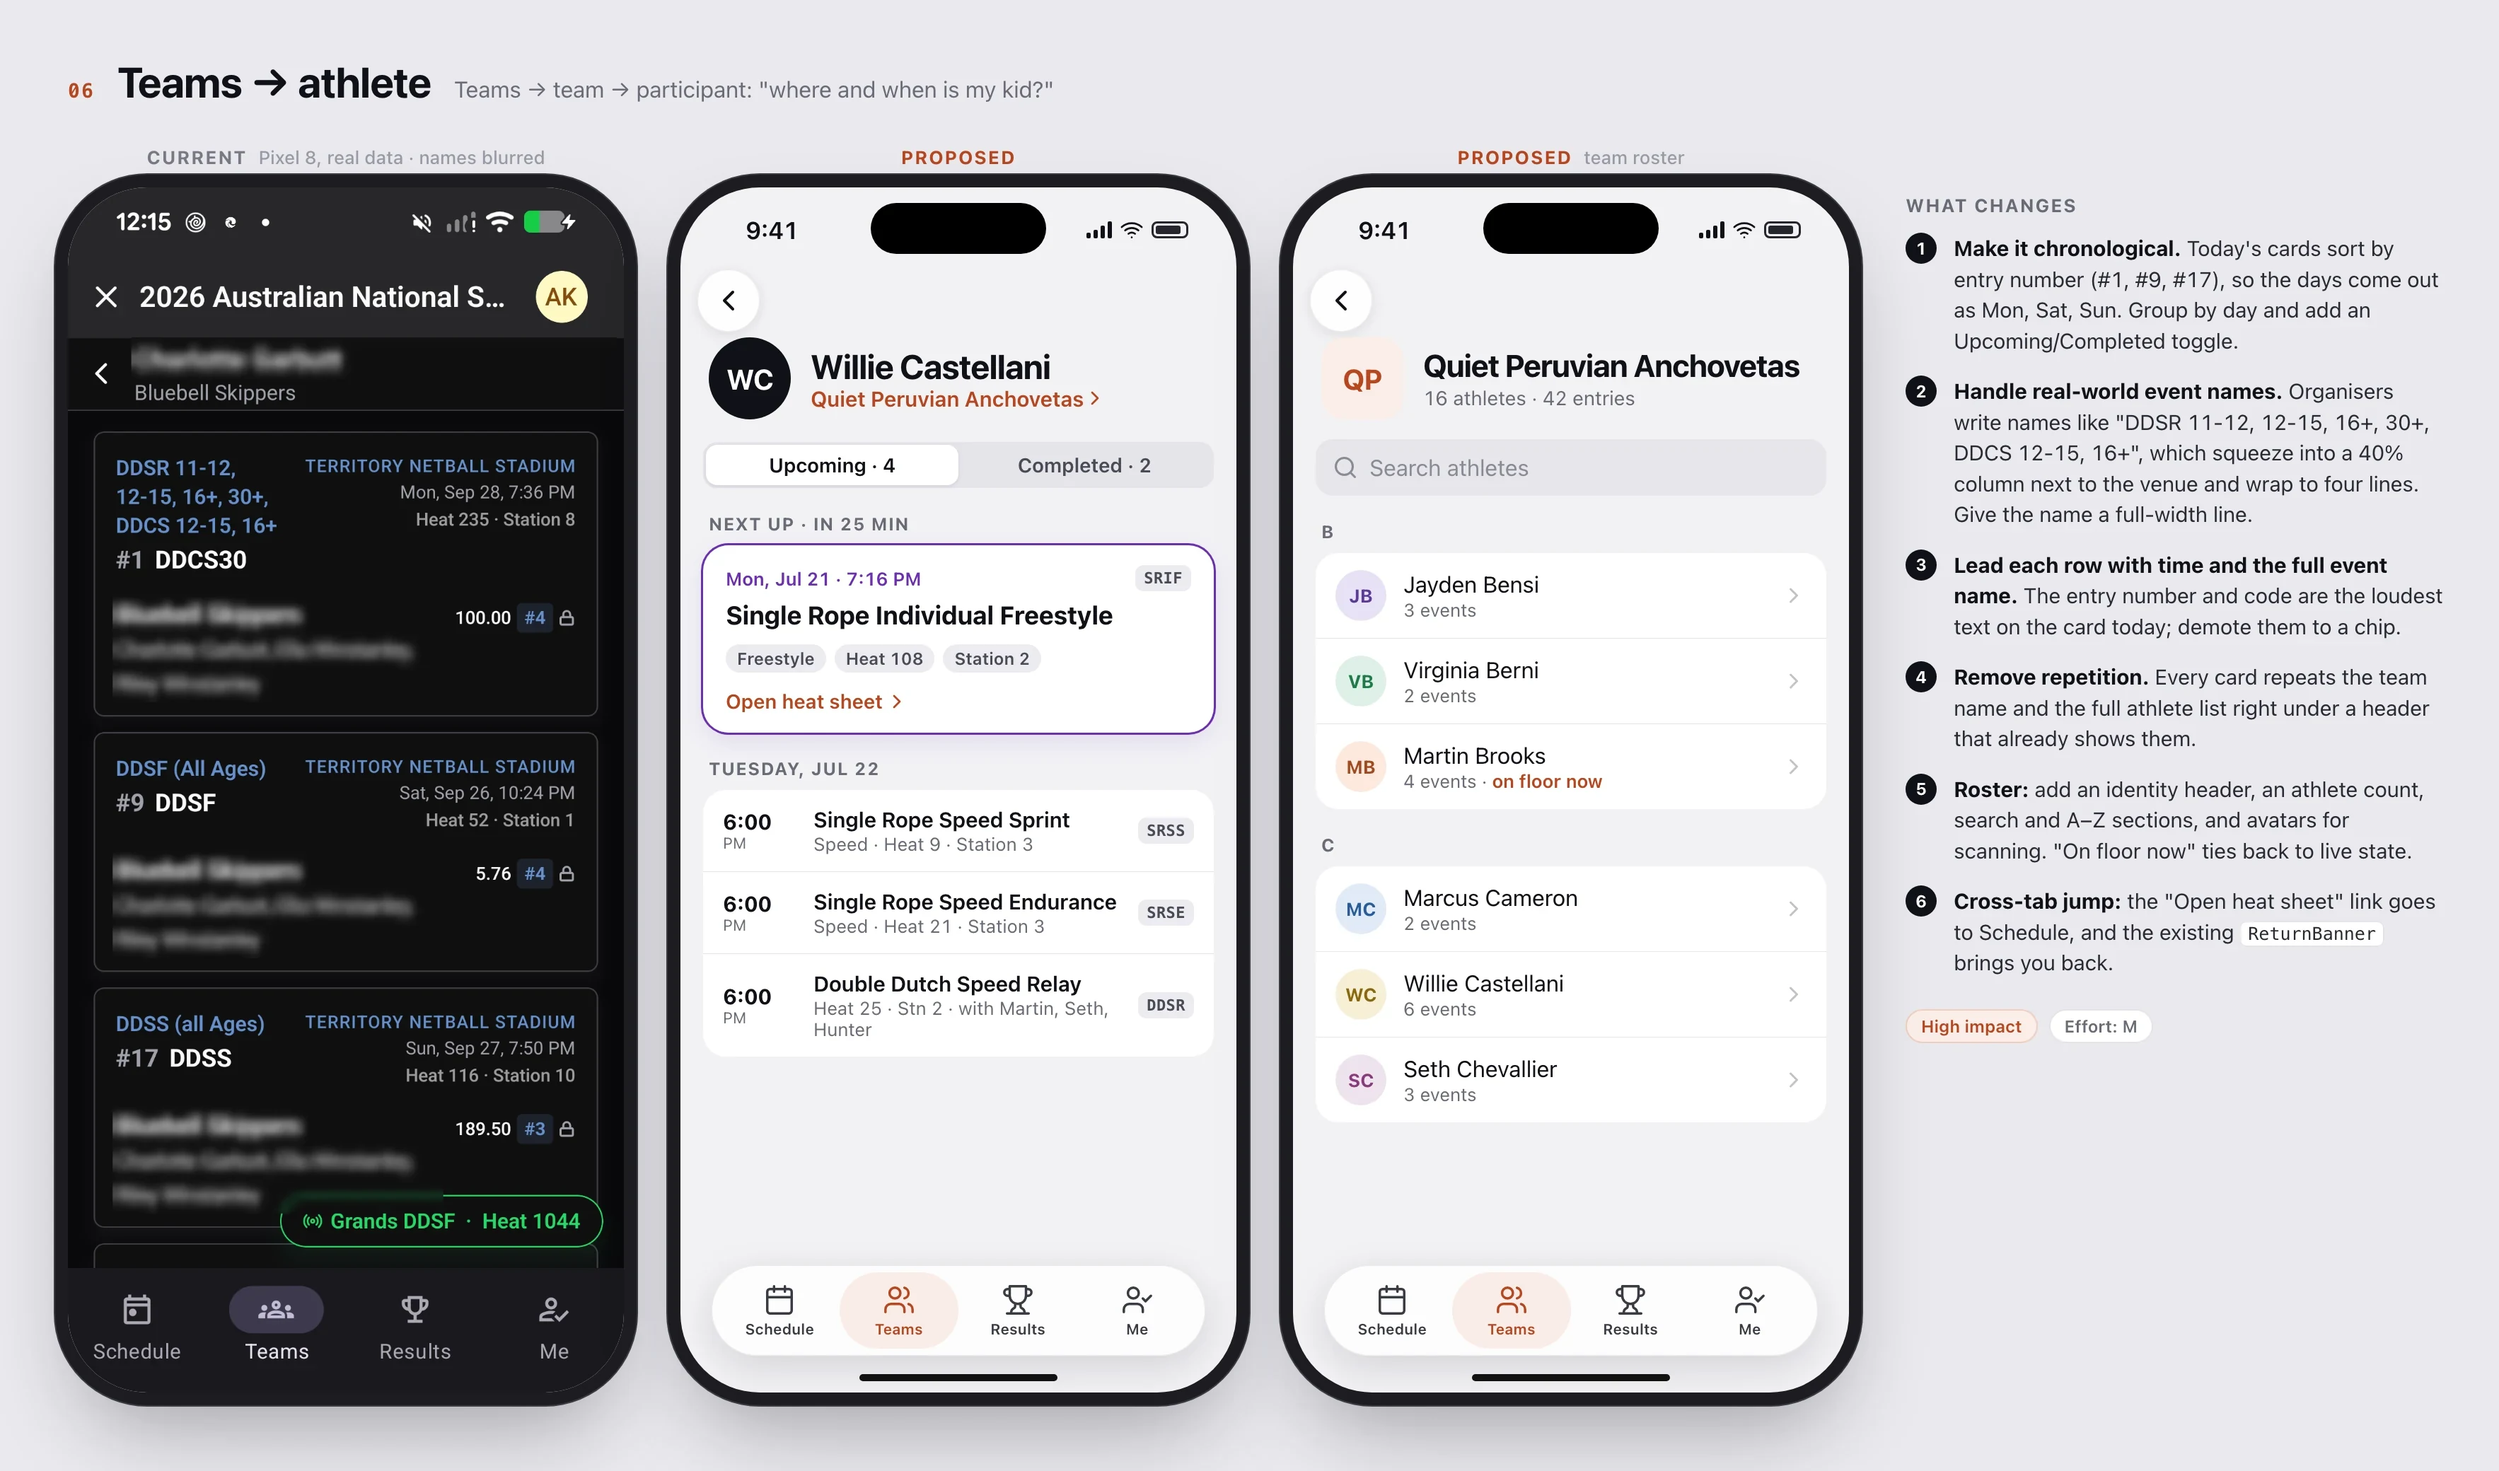
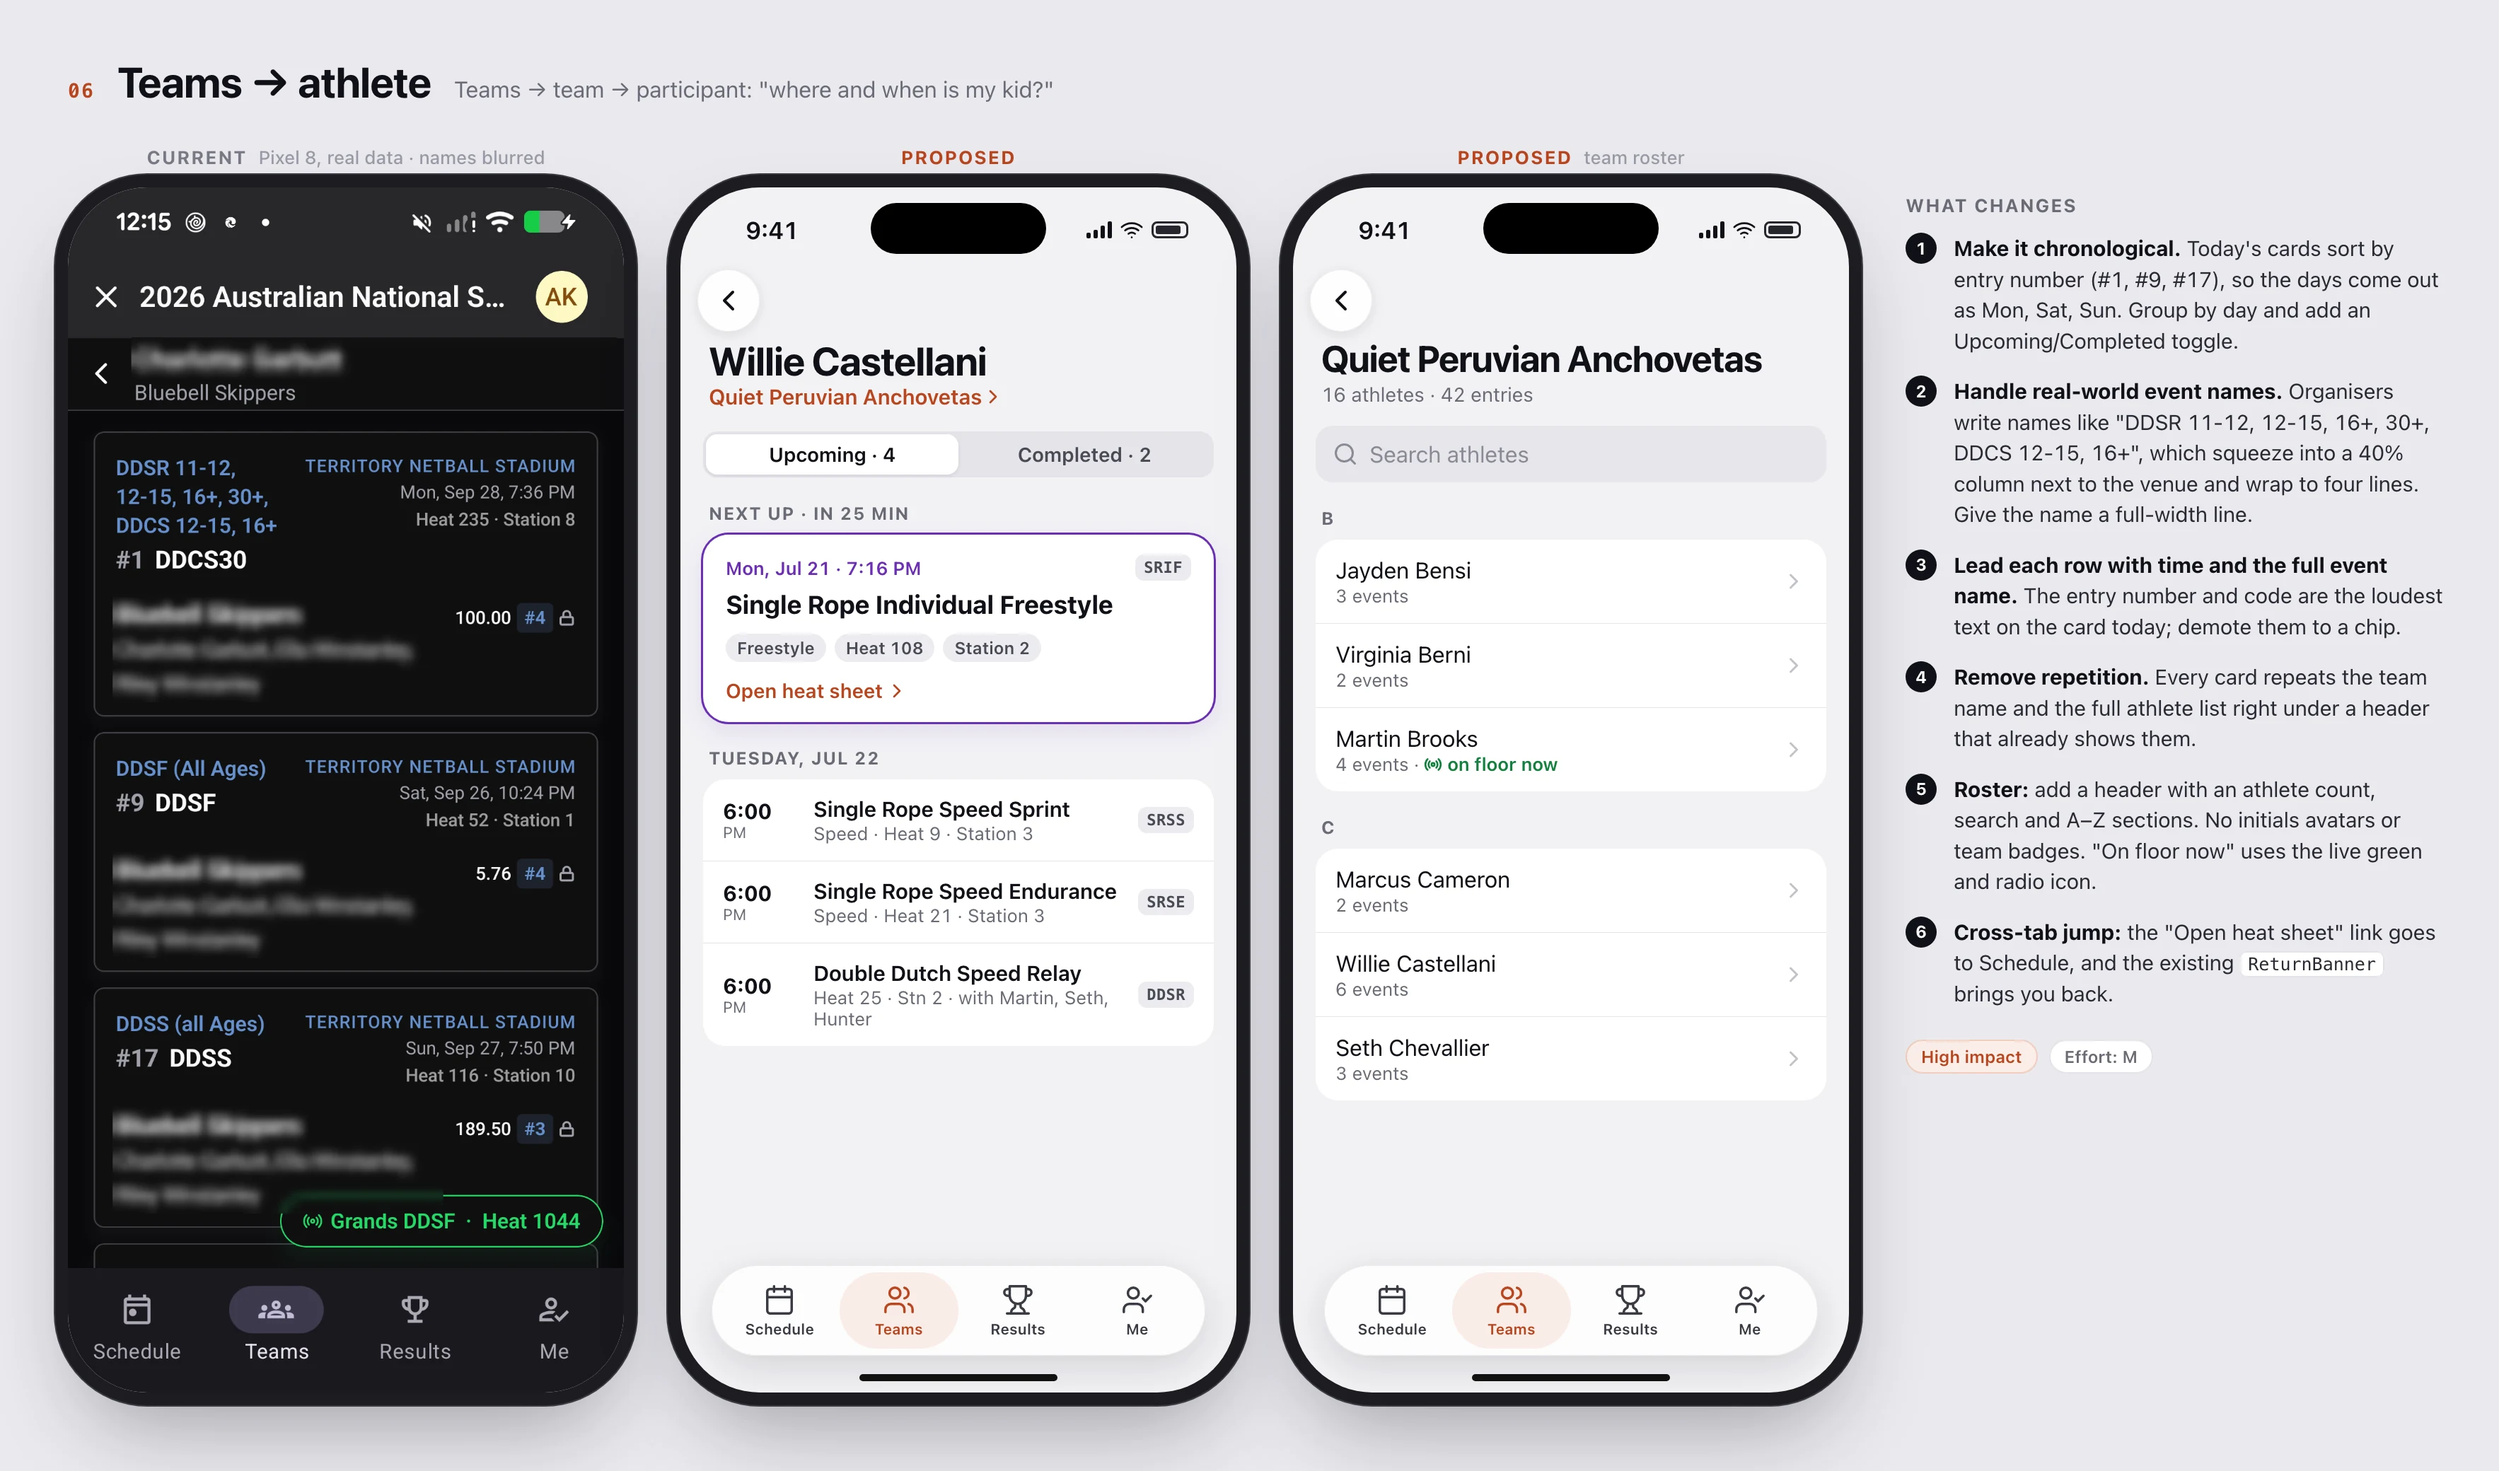
FlowScore UI review: revise colour roles, landing and results
Keep green and the radio icon for live, move blue to final results,
drop the branded landing background and QR option, remove FlowScore
branding from competition cards and initials avatars from people, and
replace the results podium with a ranked list using medal icons.

diff --git a/flowscore-ui-review-a6f808f555/index.html b/flowscore-ui-review-a6f808f555/index.html
@@ -67,7 +67,7 @@
   <div class="panel">
     <h3>Main themes</h3>
     <ol>
-      <li><b>The app doesn't look like FlowScore.</b> The icon is ink with a coral "live" column. The app uses a generic blue, a green "live" colour and the platform's default tab colour.</li>
+      <li><b>The app doesn't use its own colours.</b> Coral from the icon becomes the accent for actions, selection and the tab bar. Green and the radio icon stay the "live" signal. Blue, which coral replaces as the main colour, moves to "Final" results.</li>
       <li><b>Real data breaks the layouts.</b> Results columns truncate. Event names like "DDSR 11-12, 12-15, 16+, 30+…" wrap to four lines. Competition titles wrap to two lines.</li>
       <li><b>There's too much header.</b> The competition header stays on top of every detail screen. Its ✕ means "switch competition", not "close".</li>
       <li><b>Floating overlays hide content.</b> The live-now pill covers rows on every tab, and the "Back to…" banner covers the top of the heat list.</li>
@@ -80,7 +80,6 @@
       <li><b>Schedule renders blank on Android</b> (production 1.4.0, on a competition with a live session). No day tabs, list or empty state, and no errors in logcat.</li>
       <li><b>The account dropdown stays open after deep-link navigation</b> and sits on top of other screens.</li>
       <li><b>The OAuth redirect route sends you to a 404.</b> It still targets <code>/(tabs)</code>, which no longer exists.</li>
-      <li><b>The QR scan screen has no entry point</b> anywhere in the UI.</li>
       <li><b>Dark-mode cards glow white</b> because the card shadow uses the text colour.</li>
     </ul>
   </div>
@@ -92,8 +91,8 @@
       <li><b>Core screens:</b> Schedule, heats and results (02–05).</li>
       <li><b>Everything else:</b> the home screen, athlete page, settings and account menu.</li>
     </ol>
-    <h3 style="margin-top:18px">Open decision</h3>
-    <p>Should the accent change from blue to brand coral? Plain coral <code>#D85A30</code> with white text is only 3.9:1, so filled buttons and pills use <code>#C24E22</code> (4.8:1). Most layout changes work either way.</p>
+    <h3 style="margin-top:18px">Colour roles</h3>
+    <p><b>Coral</b> is the accent; filled buttons use <code>#C24E22</code> so white text passes contrast. <b>Green with the radio icon</b> means live and nothing else. <b>Blue</b> marks final results. Purple and amber stay for Competing and Judging. Gold, silver and bronze mark the top three in results.</p>
   </div>
 </div>
 
@@ -119,7 +118,7 @@
 <section class="board" id="b2"><h2>02 · Competition shell &amp; Schedule</h2><a href="boards/b2.webp"><img src="boards/b2.webp" alt="Current vs proposed schedule" loading="lazy"></a></section>
 <section class="board" id="b3"><h2>03 · Session → heat sheet</h2><a href="boards/b3.webp"><img src="boards/b3.webp" alt="Current vs proposed heat sheet" loading="lazy"></a></section>
 <section class="board" id="b4"><h2>04 · Results — event browser</h2><a href="boards/b4.webp"><img src="boards/b4.webp" alt="Current vs proposed results list" loading="lazy"></a></section>
-<section class="board" id="b5"><h2>05 · Results — event detail</h2><a href="boards/b5.webp"><img src="boards/b5.webp" alt="Current vs proposed results detail with podium" loading="lazy"></a></section>
+<section class="board" id="b5"><h2>05 · Results — event detail</h2><a href="boards/b5.webp"><img src="boards/b5.webp" alt="Current vs proposed results detail with medal icons" loading="lazy"></a></section>
 <section class="board" id="b6"><h2>06 · Teams → athlete</h2><a href="boards/b6.webp"><img src="boards/b6.webp" alt="Current vs proposed athlete page and team roster" loading="lazy"></a></section>
 <section class="board" id="b7"><h2>07 · Empty, signed-out &amp; error states</h2><a href="boards/b7.webp"><img src="boards/b7.webp" alt="Current vs proposed Me tab signed out and competition-unavailable state" loading="lazy"></a></section>
 <section class="board" id="b8"><h2>08 · Settings</h2><a href="boards/b8.webp"><img src="boards/b8.webp" alt="Current vs proposed settings" loading="lazy"></a></section>
